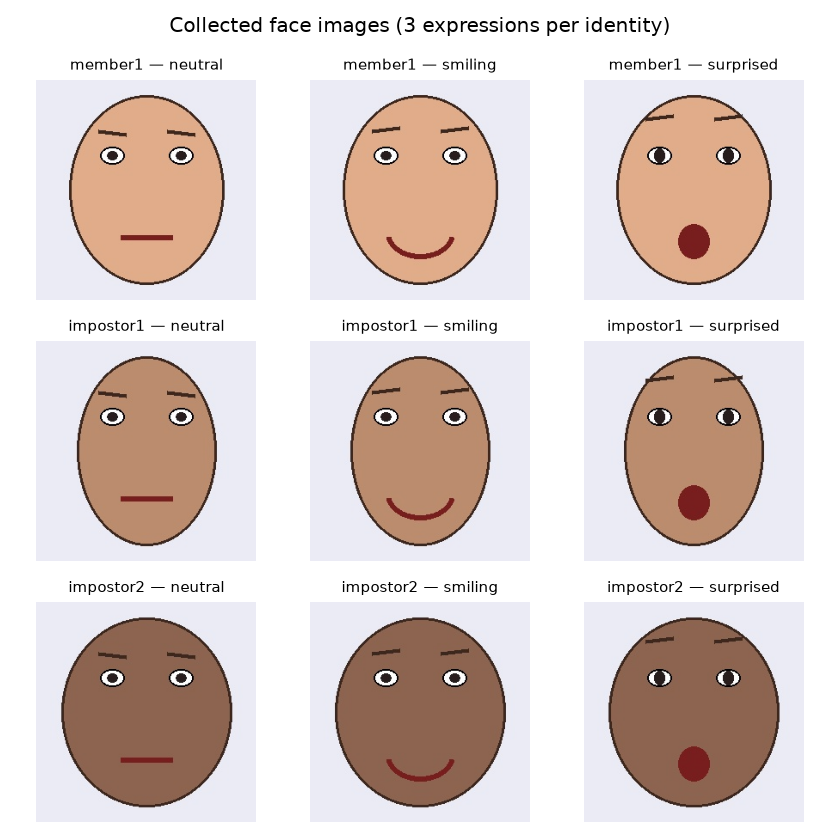
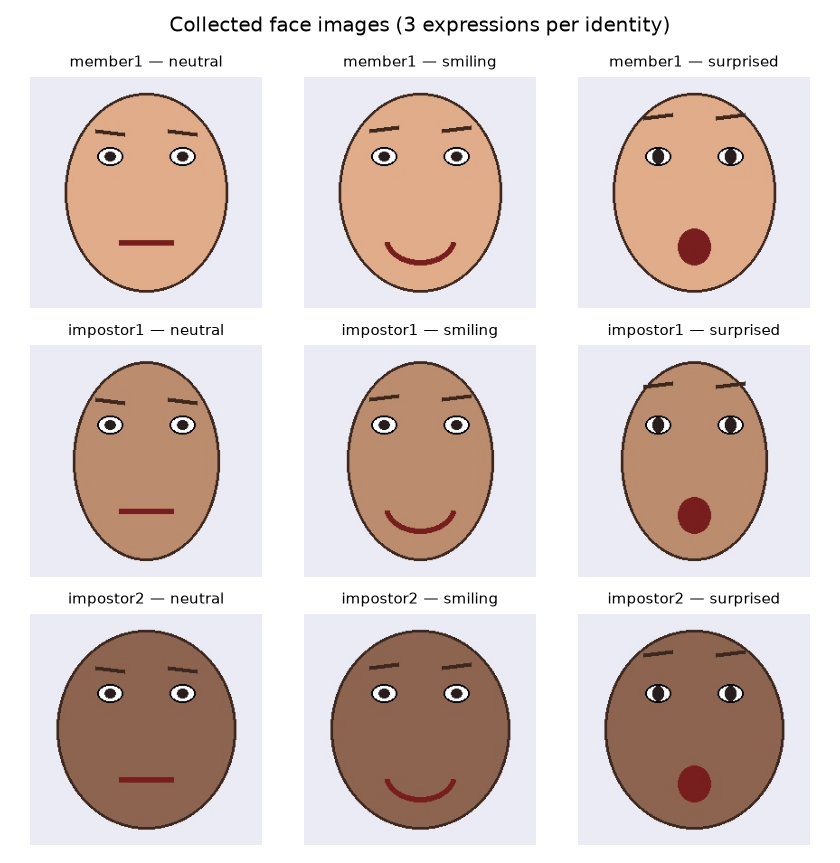
Support multiple authorized members
- label_authorized now covers any member* identity (was hardcoded to
  member1 only, which would have trained the models to deny members 2-4)
- image sample grid built from identities actually present in
  data/images/raw (members first), handles .jpg and .png

diff --git a/scripts/image_pipeline.py b/scripts/image_pipeline.py
@@ -103,7 +103,7 @@ def extract_features(path: Path) -> dict:
     emb = cv2.resize(gray, (16, 16)).flatten() / 255.0
     member, expression = path.stem.split("_")[0], path.stem.split("_")[1]
     row = {"file": path.name, "member": member, "expression": expression,
-           "label_authorized": int(member == "member1")}
+           "label_authorized": int(member.startswith("member"))}
     row |= {f"hist_{i}": v for i, v in enumerate(hist)}
     row |= {f"emb_{i}": v for i, v in enumerate(emb)}
     return row
@@ -112,13 +112,18 @@ def extract_features(path: Path) -> dict:
 def main():
     raw = collect_images()
 
-    # display grid of each member's expressions
-    fig, axes = plt.subplots(len(MEMBERS), len(EXPRESSIONS), figsize=(7, 7))
-    for i, member in enumerate(MEMBERS):
+    # display grid of each identity's expressions (members first, then impostors)
+    identities = sorted({p.stem.split("_")[0] for p in raw},
+                        key=lambda m: (not m.startswith("member"), m))
+    fig, axes = plt.subplots(len(identities), len(EXPRESSIONS),
+                             figsize=(7, 2.4 * len(identities)), squeeze=False)
+    for i, member in enumerate(identities):
         for j, expr in enumerate(EXPRESSIONS):
-            p = RAW_IMG / f"{member}_{expr}.jpg"
-            if p.exists():
-                axes[i, j].imshow(Image.open(p))
+            for ext in ("jpg", "png"):
+                p = RAW_IMG / f"{member}_{expr}.{ext}"
+                if p.exists():
+                    axes[i, j].imshow(Image.open(p))
+                    break
             axes[i, j].set_title(f"{member} — {expr}", fontsize=9)
             axes[i, j].axis("off")
     fig.suptitle("Collected face images (3 expressions per identity)")

diff --git a/scripts/audio_pipeline.py b/scripts/audio_pipeline.py
@@ -89,7 +89,7 @@ def extract_features(path: Path) -> dict:
     mfcc = librosa.feature.mfcc(y=y, sr=sr, n_mfcc=13)
     member, phrase = path.stem.split("_")[0], "_".join(path.stem.split("_")[1:3])
     row = {"file": path.name, "member": member, "phrase": phrase,
-           "label_authorized": int(member == "member1"),
+           "label_authorized": int(member.startswith("member")),
            "spectral_rolloff": float(librosa.feature.spectral_rolloff(y=y, sr=sr).mean()),
            "spectral_centroid": float(librosa.feature.spectral_centroid(y=y, sr=sr).mean()),
            "rms_energy": float(librosa.feature.rms(y=y).mean()),